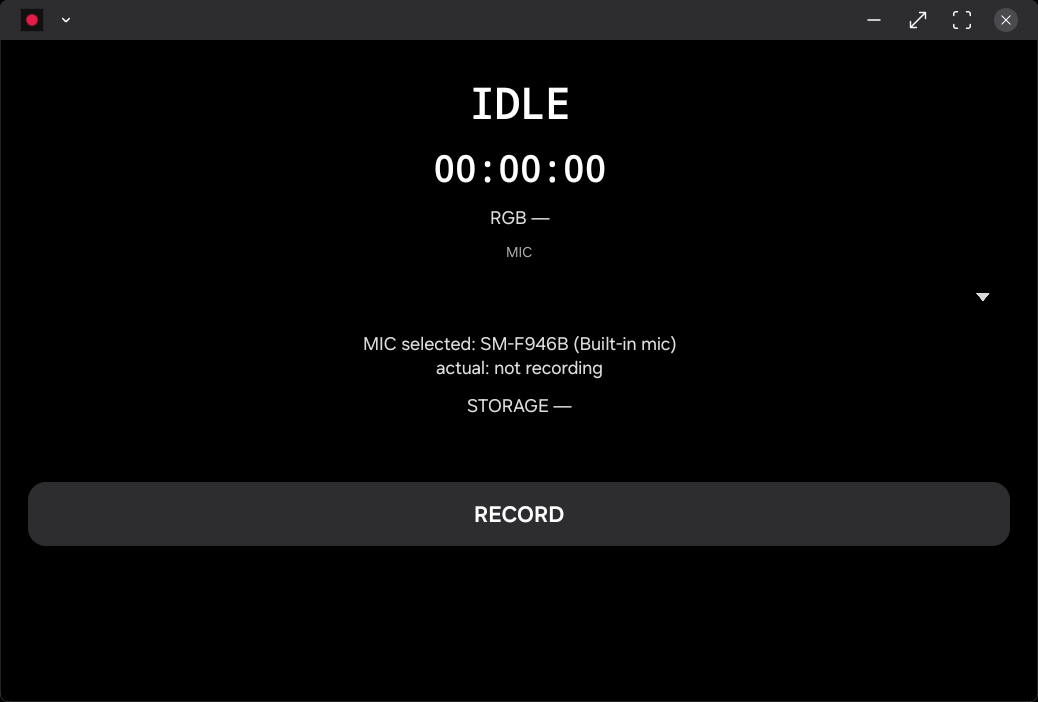
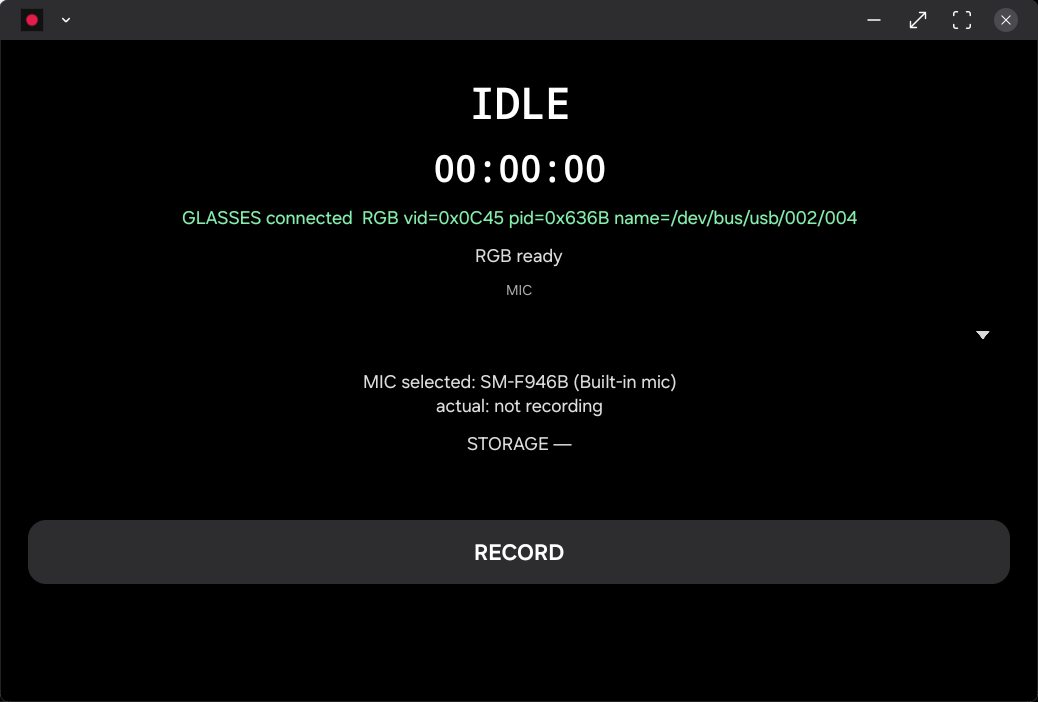
fix(recorder): stop USB chooser and show glasses presence
Drop USB_DEVICE_ATTACHED so connecting glasses does not prompt to open
the recorder. Detect RGB/glasses from the live USB list, dim RECORD
until a camera is present, and hide non-capture audio ports from the
mic selector. Reconnect still produces HEVC+AAC and a Gallery copy.

diff --git a/console/recorder/src/main/java/sh/colak/xrconsole/recorder/MainActivity.java b/console/recorder/src/main/java/sh/colak/xrconsole/recorder/MainActivity.java
@@ -2,10 +2,14 @@ package sh.colak.xrconsole.recorder;
 
 import android.Manifest;
 import android.app.Activity;
+import android.content.BroadcastReceiver;
+import android.content.Context;
 import android.content.Intent;
+import android.content.IntentFilter;
 import android.content.pm.PackageManager;
 import android.graphics.Color;
 import android.graphics.Typeface;
+import android.hardware.usb.UsbManager;
 import android.os.Build;
 import android.os.Bundle;
 import android.os.Handler;
@@ -21,10 +25,11 @@ import android.widget.TextView;
 public final class MainActivity extends Activity implements RecState.Listener {
     static final String ACTION_SMOKE = "sh.colak.xrconsole.recorder.SMOKE";
     static final String ACTION_STOP = "sh.colak.xrconsole.recorder.STOP";
-    private TextView rec, timer, rgb, mic, storage, err;
+    private TextView rec, timer, glasses, rgb, mic, storage, err;
     private Spinner micSelector;
     private Button btn;
     private AudioDeviceMonitor audioMonitor;
+    private GlassesMonitor glassesMonitor;
     private final Handler h = new Handler(Looper.getMainLooper());
     private long smokeSegMs = RecordEngine.DEFAULT_SEGMENT_MS;
     private long smokeDurMs;
@@ -50,6 +55,7 @@ public final class MainActivity extends Activity implements RecState.Listener {
         timer.setText("00:00:00");
         root.addView(timer);
 
+        glasses = tv(18, 0xFFDDDDDD);
         rgb = tv(18, 0xFFDDDDDD);
         mic = tv(18, 0xFFDDDDDD);
         TextView micLabel = tv(14, 0xFFAAAAAA);
@@ -58,6 +64,7 @@ public final class MainActivity extends Activity implements RecState.Listener {
         micSelector.setMinimumHeight(dp(56));
         storage = tv(18, 0xFFDDDDDD);
         err = tv(16, 0xFFFF6666);
+        root.addView(glasses);
         root.addView(rgb);
         root.addView(micLabel);
         root.addView(micSelector);
@@ -77,8 +84,11 @@ public final class MainActivity extends Activity implements RecState.Listener {
         setContentView(root);
         RecState.I.add(this);
         audioMonitor = new AudioDeviceMonitor();
+        glassesMonitor = new GlassesMonitor();
         refreshMicrophones();
+        refreshPresence();
         audioMonitor.start();
+        glassesMonitor.start();
         handleIntent(getIntent());
         render();
         h.post(tick);
@@ -136,6 +146,12 @@ public final class MainActivity extends Activity implements RecState.Listener {
     private void tryStart(long segMs, long durMs) {
         if (!hasPerms()) {
             requestPerms();
+            return;
+        }
+        refreshPresence();
+        if (!RecState.I.cameraPresent) {
+            RecState.I.fail("connect glasses RGB camera to record");
+            render();
             return;
         }
         RecState.I.error = "";
@@ -237,24 +253,69 @@ public final class MainActivity extends Activity implements RecState.Listener {
 
     @Override public void onRecState() { h.post(this::render); }
 
+    private void refreshPresence() {
+        RecordEngine.applyPresence(new UsbHost(this, unusedUsb).presence());
+    }
+
+    private final UsbHost.Listener unusedUsb = new UsbHost.Listener() {
+        @Override public void onUsbOpened(android.hardware.usb.UsbDevice device,
+                                          android.hardware.usb.UsbDeviceConnection connection) {}
+        @Override public void onUsbDenied(android.hardware.usb.UsbDevice device) {}
+    };
+
+    private final class GlassesMonitor extends BroadcastReceiver {
+        private boolean registered;
+        void start() {
+            if (registered) return;
+            IntentFilter f = new IntentFilter();
+            f.addAction(UsbManager.ACTION_USB_DEVICE_ATTACHED);
+            f.addAction(UsbManager.ACTION_USB_DEVICE_DETACHED);
+            if (Build.VERSION.SDK_INT >= 33) {
+                registerReceiver(this, f, Context.RECEIVER_NOT_EXPORTED);
+            } else {
+                registerReceiver(this, f);
+            }
+            registered = true;
+        }
+        void stop() {
+            if (!registered) return;
+            try { unregisterReceiver(this); } catch (Exception ignored) {}
+            registered = false;
+        }
+        @Override public void onReceive(Context context, Intent intent) {
+            refreshPresence();
+            render();
+        }
+    }
+
     private void render() {
         RecState st = RecState.I;
         boolean recOn = st.phase == RecState.Phase.RECORDING;
+        boolean ready = st.cameraPresent;
         rec.setText(recOn ? "● REC" : (st.phase == RecState.Phase.ERROR ? "ERROR" : st.phase.name()));
         rec.setTextColor(recOn || st.phase == RecState.Phase.ERROR ? 0xFFE11D48 : Color.WHITE);
         timer.setText(RecordService.formatDur(st.elapsedMs()));
+        glasses.setText(st.glassesStatus);
+        glasses.setTextColor(ready ? 0xFF86EFAC : 0xFFF87171);
         rgb.setText(st.rgbInfo);
         mic.setText("MIC selected: " + st.micSelection + "\nactual: " + st.micRoute);
         micSelector.setEnabled(st.phase == RecState.Phase.IDLE || st.phase == RecState.Phase.ERROR);
         long mb = st.storageFreeBytes / (1024 * 1024);
         storage.setText(st.storageFreeBytes > 0 ? ("STORAGE " + mb + " MB free") : "STORAGE —");
-        err.setText(st.error != null ? st.error : "");
+        if (st.phase == RecState.Phase.IDLE && !ready) {
+            err.setText("connect glasses to record");
+        } else {
+            err.setText(st.error != null ? st.error : "");
+        }
         if (recOn || st.phase == RecState.Phase.STARTING || st.phase == RecState.Phase.STOPPING) {
             btn.setText("STOP");
+            btn.setEnabled(st.phase != RecState.Phase.STOPPING);
+            btn.setAlpha(1f);
         } else {
             btn.setText("RECORD");
+            btn.setEnabled(ready && st.phase != RecState.Phase.STOPPING);
+            btn.setAlpha(ready ? 1f : 0.35f);
         }
-        btn.setEnabled(st.phase != RecState.Phase.STOPPING);
     }
 
     private TextView tv(int sp, int color) {
@@ -273,6 +334,7 @@ public final class MainActivity extends Activity implements RecState.Listener {
     @Override protected void onDestroy() {
         RecState.I.remove(this);
         if (audioMonitor != null) audioMonitor.stop();
+        if (glassesMonitor != null) glassesMonitor.stop();
         h.removeCallbacks(tick);
         super.onDestroy();
     }

diff --git a/console/recorder/src/main/java/sh/colak/xrconsole/recorder/RecordEngine.java b/console/recorder/src/main/java/sh/colak/xrconsole/recorder/RecordEngine.java
@@ -114,16 +114,18 @@ final class RecordEngine implements NativeRgbCamera.Listener, UsbHost.Listener, 
         usb.register();
         ctx.registerReceiver(detachRx, new IntentFilter(UsbManager.ACTION_USB_DEVICE_DETACHED));
         glassesDev = usb.findGlasses();
+        camDev = usb.findCamera();
         st.glassesPresent = glassesDev != null;
+        st.cameraPresent = camDev != null;
+        applyPresence(usb.presence());
         int gPid = glassesDev != null ? glassesDev.getProductId() : NativeRgbCamera.LUMA_ULTRA_PID;
         int camVid = NativeRgbCamera.nativeCameraVid(gPid);
         int camPid = NativeRgbCamera.nativeCameraPid(gPid);
         if (camVid == 0) camVid = NativeRgbCamera.CAMERA_VID_SONIX;
         if (camPid == 0) camPid = NativeRgbCamera.CAMERA_PID_LUMA;
-        camDev = usb.findCamera(camVid, camPid);
+        if (camDev == null) camDev = usb.findCamera(camVid, camPid);
         if (camDev == null) {
-            throw new IllegalStateException("Luma RGB camera USB not found vid=0x"
-                    + Integer.toHexString(camVid) + " pid=0x" + Integer.toHexString(camPid));
+            throw new IllegalStateException("RGB camera USB not found");
         }
         st.cameraPresent = true;
         boolean valid = NativeRgbCamera.nativeIsValidCamera(camDev.getVendorId(), camDev.getProductId());
@@ -593,8 +595,25 @@ final class RecordEngine implements NativeRgbCamera.Listener, UsbHost.Listener, 
         if (store != null) store.close();
         if (fatal != null) st.fail(fatal);
         else st.setPhase(RecState.Phase.IDLE);
+        applyPresence(new UsbHost(ctx, this).presence());
         st.ping();
         Log.i(TAG, "stopped dir=" + st.sessionDir + " last=" + st.lastMp4);
+    }
+
+    static void applyPresence(UsbHost.Presence presence) {
+        RecState st = RecState.I;
+        st.glassesPresent = presence.glasses != null;
+        st.cameraPresent = presence.camera != null;
+        if (presence.camera != null) {
+            st.glassesStatus = "GLASSES connected  RGB " + UsbHost.describe(presence.camera);
+            if (st.phase == RecState.Phase.IDLE) st.rgbInfo = "RGB ready";
+        } else if (presence.glasses != null) {
+            st.glassesStatus = "GLASSES connected  RGB missing";
+            if (st.phase == RecState.Phase.IDLE) st.rgbInfo = "RGB —";
+        } else {
+            st.glassesStatus = "GLASSES disconnected";
+            if (st.phase == RecState.Phase.IDLE) st.rgbInfo = "RGB —";
+        }
     }
 
     private void fail(String msg) {

diff --git a/console/recorder/src/main/java/sh/colak/xrconsole/recorder/UsbHost.java b/console/recorder/src/main/java/sh/colak/xrconsole/recorder/UsbHost.java
@@ -73,18 +73,58 @@ final class UsbHost {
     UsbDevice findGlasses() {
         UsbDevice preferred = null;
         for (UsbDevice d : usb.getDeviceList().values()) {
-            if (d.getVendorId() != VITURE_VID) continue;
-            if (d.getProductId() == 0x1104) return d;
+            if (!isGlassesControl(d)) continue;
+            if (d.getProductId() == NativeRgbCamera.LUMA_ULTRA_PID) return d;
             if (preferred == null) preferred = d;
         }
         return preferred;
+    }
+
+    UsbDevice findCamera() {
+        for (UsbDevice d : usb.getDeviceList().values()) {
+            if (isRgbCamera(d)) return d;
+        }
+        return null;
     }
 
     UsbDevice findCamera(int vid, int pid) {
         for (UsbDevice d : usb.getDeviceList().values()) {
             if (d.getVendorId() == vid && d.getProductId() == pid) return d;
         }
-        return null;
+        return findCamera();
+    }
+
+    Presence presence() {
+        UsbDevice glasses = findGlasses();
+        UsbDevice camera = findCamera();
+        return new Presence(glasses, camera);
+    }
+
+    static final class Presence {
+        final UsbDevice glasses;
+        final UsbDevice camera;
+        Presence(UsbDevice glasses, UsbDevice camera) {
+            this.glasses = glasses;
+            this.camera = camera;
+        }
+        boolean ready() { return camera != null; }
+        boolean glassesOnly() { return glasses != null && camera == null; }
+    }
+
+    static boolean isRgbCamera(UsbDevice d) {
+        if (d == null) return false;
+        if (NativeRgbCamera.load() && NativeRgbCamera.nativeIsValidCamera(d.getVendorId(), d.getProductId())) {
+            return true;
+        }
+        return d.getVendorId() == CAMERA_VID && d.getProductId() == NativeRgbCamera.CAMERA_PID_LUMA;
+    }
+
+    static boolean isGlassesControl(UsbDevice d) {
+        if (d == null || isRgbCamera(d)) return false;
+        if (d.getVendorId() == VITURE_VID) return true;
+        String name = ((d.getManufacturerName() == null ? "" : d.getManufacturerName())
+                + " " + (d.getProductName() == null ? "" : d.getProductName())).toLowerCase();
+        return name.contains("viture") || name.contains("xr glasses") || name.contains("smart glasses");
     }
 
     boolean hasPermission(UsbDevice d) {

diff --git a/console/recorder/src/main/java/sh/colak/xrconsole/recorder/MicrophoneDevices.java b/console/recorder/src/main/java/sh/colak/xrconsole/recorder/MicrophoneDevices.java
@@ -48,7 +48,7 @@ final class MicrophoneDevices {
                 .thenComparing(d -> product(d).toLowerCase())
                 .thenComparing(AudioDeviceInfo::getAddress));
         for (AudioDeviceInfo d : devices) {
-            if (!d.isSource()) continue;
+            if (!isSelectableInput(d)) continue;
             JSONObject id = describe(d);
             String product = product(d);
             String type = displayType(d.getType());
@@ -186,5 +186,24 @@ final class MicrophoneDevices {
         JSONArray a = new JSONArray();
         for (int v : values) a.put(v);
         return a;
+    }
+
+    static boolean isSelectableInput(AudioDeviceInfo d) {
+        if (d == null || !d.isSource()) return false;
+        switch (d.getType()) {
+            case AudioDeviceInfo.TYPE_BUILTIN_MIC:
+            case AudioDeviceInfo.TYPE_WIRED_HEADSET:
+            case AudioDeviceInfo.TYPE_USB_DEVICE:
+            case AudioDeviceInfo.TYPE_USB_HEADSET:
+            case AudioDeviceInfo.TYPE_BLUETOOTH_SCO:
+            case AudioDeviceInfo.TYPE_BLE_HEADSET:
+            case AudioDeviceInfo.TYPE_BLE_BROADCAST:
+            case AudioDeviceInfo.TYPE_HDMI:
+            case AudioDeviceInfo.TYPE_LINE_ANALOG:
+            case AudioDeviceInfo.TYPE_LINE_DIGITAL:
+                return true;
+            default:
+                return false;
+        }
     }
 }

diff --git a/console/recorder/src/main/java/sh/colak/xrconsole/recorder/RecState.java b/console/recorder/src/main/java/sh/colak/xrconsole/recorder/RecState.java
@@ -29,6 +29,7 @@ final class RecState {
     volatile long storageFreeBytes;
     volatile boolean glassesPresent;
     volatile boolean cameraPresent;
+    volatile String glassesStatus = "GLASSES —";
 
     void add(Listener l) { listeners.add(l); }
     void remove(Listener l) { listeners.remove(l); }

diff --git a/console/recorder/README.md b/console/recorder/README.md
@@ -9,8 +9,9 @@ V1 records **only**:
 1. VITURE Luma Ultra **front RGB** camera (SDK MJPEG 1920×1080@30)
 2. One selected Android audio input, encoded as AAC 48 kHz mono
 
-The microphone selector enumerates current Android input devices and offers an
-explicit **Auto / System Default** choice. Explicit choices persist by semantic
+The microphone selector enumerates capture-capable Android inputs: built-in
+mics, USB, wired headset, Bluetooth SCO/LE. Telephony RX, remote submix, and
+other internal mix ports are omitted. Explicit choices persist by semantic
 identity (device type, product name, and address), are resolved again when a
 recording starts, and are verified against `AudioRecord.getRoutedDevice()`.
 Requested and actual routes remain distinct in metadata. A missing explicit
@@ -26,8 +27,13 @@ must come up even if the glasses path fails.
 
 ## Operation
 
-Idle: **RECORD**, microphone selector. Recording: **● REC**, elapsed time,
+Idle: glasses/RGB presence, **RECORD** (dimmed until an RGB camera is
+connected), microphone selector. Recording: **● REC**, elapsed time,
 RGB format, requested and actual mic, remaining storage, **STOP**.
+
+The app does not register as a USB default handler. Connecting glasses
+does not open a “choose an app for this USB device” prompt. Presence is
+observed from the live USB device list.
 
 Foreground service types: `camera|microphone|connectedDevice`. Recording
 survives UI background, fold, display off, DeX, Termux/Mosh. Notification
@@ -68,9 +74,9 @@ encoder running and starts the next MP4 on a keyframe.
 
 Runtime (grant once): `CAMERA`, `RECORD_AUDIO`, `POST_NOTIFICATIONS`.
 
-USB: system permission dialog for the Luma RGB camera
-(`vid=0x0C45 pid=0x636B`). Already-attached glasses are claimed; do not
-replug just because an attach callback was missed.
+USB: permission is requested when recording starts, not by registering as a
+USB default app. Already-attached glasses are claimed from the live device
+list; do not replug just because an attach callback was missed.
 
 ## Codec / bitrate
 
